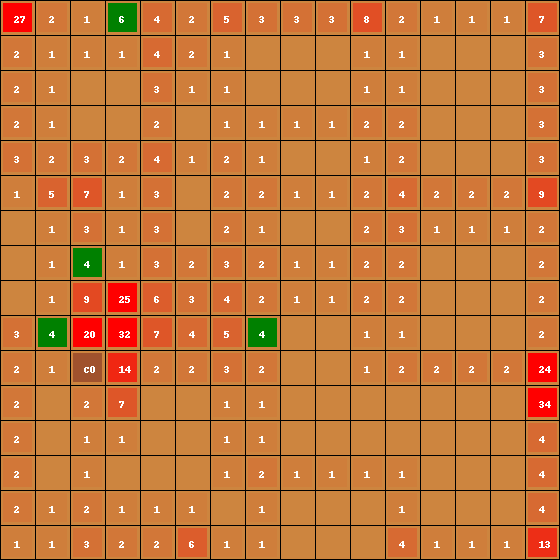
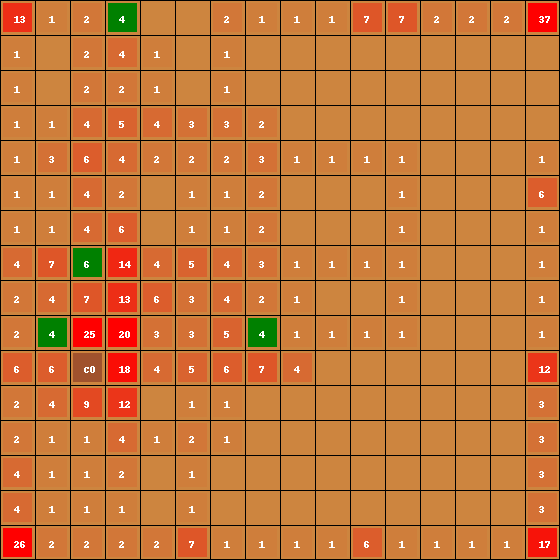
Images and teams refactor

diff --git a/Project/multi_agent_teams.py b/Project/multi_agent_teams.py
@@ -16,8 +16,11 @@ SEED_MULTIPLIER = 1 # CHANGE THIS IF YOU WANT TO TEST A DIFFERENT SET OF MAPS!
 
 def run_multi_agent(environment: Env, n_episodes: int) -> np.ndarray:
     
-    results = {}
-
+    results = {"Random Team" : np.zeros(n_episodes), 
+               "Deliberative Team": np.zeros(n_episodes), 
+               "Reactive Team": np.zeros(n_episodes), 
+               "Hybrid Team": np.zeros(n_episodes)}
+    
     for episode in range(n_episodes):
         
         teams = {
@@ -54,8 +57,6 @@ def run_multi_agent(environment: Env, n_episodes: int) -> np.ndarray:
 
         print(f"Episode {episode}")
 
-        results_ep = np.zeros(n_episodes)
-
         for team, agents in teams.items():
             steps = 0
             terminals = [False for _ in range(len(agents))]
@@ -72,21 +73,15 @@ def run_multi_agent(environment: Env, n_episodes: int) -> np.ndarray:
                 
                 next_observations, rewards, terminals, info = environment.step(actions)
 
-                environment.render() # ENABLE/DISABLE THIS TO VIEW ENVIRONMENT
-
-                if(steps == 1):
-                    input()
-                time.sleep(opt.render_sleep_time)
+                #environment.render() # ENABLE/DISABLE THIS TO VIEW ENVIRONMENT
+                #time.sleep(opt.render_sleep_time)
 
                 observations = next_observations
-
+            
             environment.draw_heat_map(episode, team)
-
-            results_ep[episode] = steps
+            results[team][episode] = steps
 
             environment.close()
-
-        results[team] = results_ep
 
     return results
 
@@ -99,7 +94,7 @@ if __name__ == '__main__':
     opt = parser.parse_args()
 
     # 1 - Setup the environment
-    environment = AntColonyEnv(grid_shape=(16, 16), n_agents=4, max_steps=100, n_foodpiles=4, n_episodes=opt.episodes)
+    environment = AntColonyEnv(grid_shape=(16, 16), n_agents=4, max_steps=200, n_foodpiles=4, n_episodes=opt.episodes)
 
     # 3 - Evaluate teams
     results = run_multi_agent(environment, opt.episodes)
@@ -108,6 +103,6 @@ if __name__ == '__main__':
     compare_results(
         results,
         title="Teams Comparison on 'Ant Colony' Environment",
-        colors=["orange", "green", "blue"]
+        colors=["orange", "green", "blue", "red"]
     )
 
